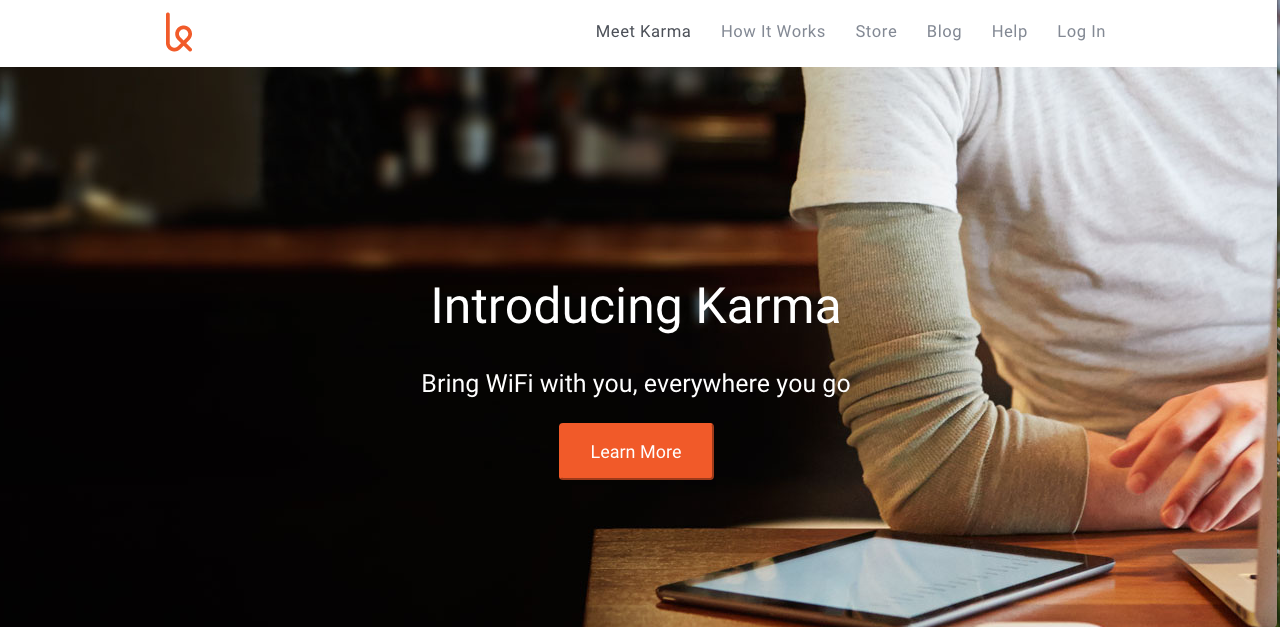
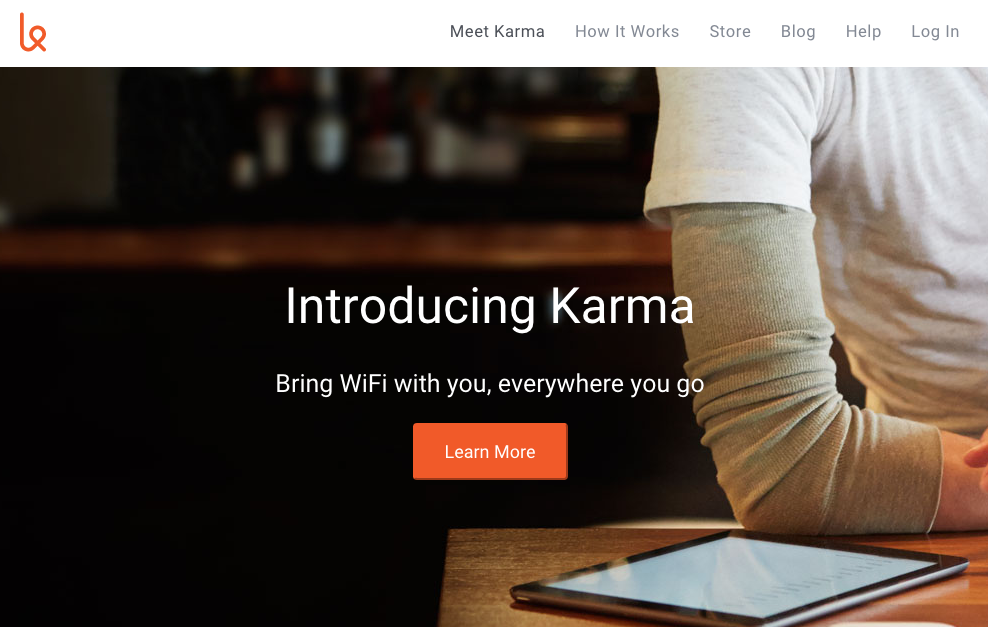
commit basic

diff --git a/index.html b/index.html
@@ -5,7 +5,8 @@
 	<title>Document</title>
 	<link rel="stylesheet" href="css/normalize.css">
 	<link rel="stylesheet" href="css/style.css">
-	<link href='https://fonts.googleapis.com/css?family=Old+Standard+TT|Gudea' rel='stylesheet' type='text/css'>
+	<link href='https://fonts.googleapis.com/css?family=Oswald|Droid+Serif' rel='stylesheet' type='text/css'>
+	
 </head>
 <body>
 	<nav class="top-navigation">
@@ -21,12 +22,12 @@
 	<section class="introduction">
 		<div class="content">
 			<h1> Hi, I'm Kelly </h1>
-			<h3>A Freelance Web Developer</h3>	
+			<h3>An Aspiring Web Developer</h3>	
 		</div>
 	</section>
 	<section class="about">
 		<div class="content">
-			<h2>About Me</h2>
+			<h2>ABOUT ME</h2>
 			<p>
 				I am an aspiring front end web developer, designer, and photographer. As a former marketing director I have extensive experience in social media marketing, advertising, blogs, brand management, and digital content. I am drawn making things more efficient and intuitive. My creative passion for photography and design have blended beautifully with my obsession for perfection to make my websites stand out on their own. 
 			</p>
@@ -34,51 +35,65 @@
 				When I’m not developing you can find me in my local yoga studio, enjoying gorgeous Denver, or at live show. 
 
 			</p>
-			<ul>
-				<li>
-					<img class="hands" width="600" height="456" src="images/hand.jpg" alt="Picture of Kelly Molumby">
-				</li>
-			</ul>
+		</div>
+		<div class="face">
+			<img class="hands" width="600" height="456" src="images/hand.jpg" alt="Picture of Kelly Molumby">
 		</div>
 	</section>
 	<section class="work">
 		<div class="content">
-			<h2>Work</h2>
-			<h3>Here are some of my recent projects</h3>
+			<h2>WORK</h2>
+			<p>Check out some of my recent projects</p>
+		</div>
+		<div class="links">
 			<ul>
-				<li><a href="http://codepen.io/kmolumby/full/KdxbMy/">
-  					<img src= "images/aboutme.png" alt="About Me Website" width="400" height="400">
+				<li class="info">
+					<a href="http://codepen.io/kmolumby/full/KdxbMy/">
+  						<img src= "images/aboutme.png" alt="About Me Website" width="600" height="381">
 					</a>
 				</li>
-				<div class="caption">
-				About Me 
-				</div>
-
-				<li>
+				<li class="times">
 					<a href="http://prntscr.com/91swiw">
-	  				<img src= "images/hack.png" alt="Hack the NYT" width="400" height="400">
+  						<img src= "images/hack.png" alt="New York Times Hack" width="600" height="381">
 					</a>
 				</li>
-				<div class="caption">
-					Hack the New York Times 
-				</div>
-				<li>
+				<li class="karma">
 					<a href="https://kmolumby.github.io/fewd_landing_page_clone/index.html">
-	  				<img src= "images/karma.png" alt="Karma Landing Page" width="400" height="400">
+  						<img src= "images/karma.png" alt="Karma Landing Page" width="600" height="381">
 					</a>
 				</li>
-				<div class="caption">
-					Hack the New York Times 
-				</div>
 			</ul>
-		</div>
+		</div>	
 	</section>
-	<footer class="contact">
+	<footer class="social">
 		<div class="content">
-			<h2>Contact</h2>
-
+			<h2>Find Me Here</h2>
+			<ul class="icons">
+					<li class="facebook">
+						<a href="https://www.facebook.com/kelly.marie.351">
+  							<img src= "images/facebook.png" alt="Facebook Link" width="100" height="100">
+						</a>
+					</li>
+					<li class="instagram">
+						<a href="https://www.instagram.com/existentialnonexistentialist/">
+  							<img src= "images/instagram.png" alt="Instagram Link" width="100" height="100">
+  						</a>
+					</li>
+					<li class "linked-in">
+						<a href="https://www.linkedin.com/in/kelly-molumby-61158240">
+  							<img src= "images/linkedin.png" alt="Linked In Link" width="100" height="100">
+  						</a>
+					</li>
+					<li class "pinterest">
+						<a href="https://www.pinterest.com/kmolumby/">
+  							<img src= "images/pinterest.png" alt="Pinterest Link" width="100" height="100">
+  						</a>
+					</li>
+				</ul>
+				<span class="copy">
+				        &copy; 2015 Kelly Molumby
+				</span>
 		</div>
-		
 	</footer>
 </body>
 </html>

diff --git a/css/style.css b/css/style.css
@@ -1,19 +1,26 @@
-/* temporary designs 
 
 
-div {
+
+/*div {
     border: 1px solid Chocolate;
 }
 */
 
+
+
 /* fonts */
 
 body {
-	font-family: 'Gudea', sans-serif;
+	font-family: 'Droid Serif', serif;
+	-webkit-font-smoothing: antialiased;
+	
 }
 
 h1, h2, h3 {
-	font-family: 'Old Standard TT', serif;
+	font-family: 'Oswald', sans-serif;
+	font-weight: 200;
+	-webkit-font-smoothing: antialiased;
+	
 }
 
 
@@ -24,12 +31,16 @@ h1, h2, h3 {
 	position: fixed;
 	width: 100%;
 	z-index: 9999;
+	font-family:'Oswald', sans-serif;
+
 
 }
 
 .top-navigation > .content {
 	
 	height: 5rem;
+	float: right; 
+	padding-right: 2.5rem;
 }
 
 .top-navigation .links {
@@ -40,6 +51,7 @@ h1, h2, h3 {
 	letter-spacing: 0.03em;
 	-webkit-font-smoothing: antialiased;
 	padding: 0 3rem;
+	font-weight: 200;
 }
 
 .top-navigation .links li {
@@ -119,8 +131,9 @@ h1, h2, h3 {
 }
 
 .about .content h2 {
-	font-size: 3rem;
+	font-size: 4rem;
 	margin-top: 0;
+	font-weight: 200;
 }
 
 .about .content li {
@@ -128,39 +141,128 @@ h1, h2, h3 {
 	
 }
 
-.hands {
-
-	padding: 2rem;
-	margin-top: 4rem;
-	margin-right: 2rem;
-	margin-left: -8.5rem;
+.face {
+	margin: 0 auto;
+	max-width: 600px;
 
 }
+
+
 
 
 
 /* Work Section */
 
 .work {
-	margin-top: 0rem;
-	padding-top: 5rem;
-	padding-bottom: 5rem;
-	padding-left: 3rem;
-	padding-right: 3rem;
-	background-color: #8e8e8e;
-}
-
-.work > li {
-	width: 33.33333333333%;
-	float: left;
-	display: inline-block;
-	height: 4em;
-	margin: 1rem 2rem;
-	list-style: none;
-
+background-color: #8e8e8e;
+padding: 5rem;
 }
 
 .work h2 {
-	font-size: 3rem;
+	font-size: 4rem;
+	margin: 0;
+	font-weight: 200;
 }
+
+.work p {
+	font-size: 1.6rem;
+}
+
+
+.work .content {
+	max-width: 600px;
+}
+
+
+.work .links {
+	max-width: 600px;
+	margin: 0 auto;
+
+}
+
+.work .links li {
+	list-style: none;
+	display: inline-block;
+	padding-left: 0;
+	
+	padding: 0;
+	max-width: 600px;
+	margin: 3rem auto;
+	
+}
+
+.work .links ul {
+	padding-left: 0;
+	padding-bottom: 2rem;
+}
+
+ .work .links .times li {
+	margin-top: 2rem;
+	padding-top: 5rem;
+}
+
+
+
+/*footer*/
+
+.social {
+	background-color: #f4f4f4;
+	overflow: auto;
+	padding-bottom: 6.375rem;
+	text-align: center;
+	-webkit-font-smoothing: antialiased;
+	box-sizing: border-box;
+}
+
+
+.social .icons > li {
+	list-style: none;
+	display: inline-block;
+	padding: 0.625rem 1rem;
+}
+
+.social .content {
+	color: black;
+}
+/*.social .icons > li {
+
+	
+	
+	width: 2.5rem;
+	height: 2.5rem;
+	list-style: none;
+	display: inline-block;
+	margin: 1.25rem 5px;
+	padding: 0.625rem 0;
+	text-align: center;
+	box-sizing: border-box;
+}
+
+.social h2 {
+
+	font-size: 1.03rem;
+	font-weight: 400;
+	text-align: center;
+	box-sizing: border-box;
+}
+
+
+
+.social .copy {
+	font-weight: .9rem;
+	font-weight: 300;
+	color: #838994;
+	box-sizing: border-box;
+}
+
+.social .icons {
+	padding-right: 2.5rem;
+}
+
+
+.social .content {
+	color: black;
+}
+
+*/
 
